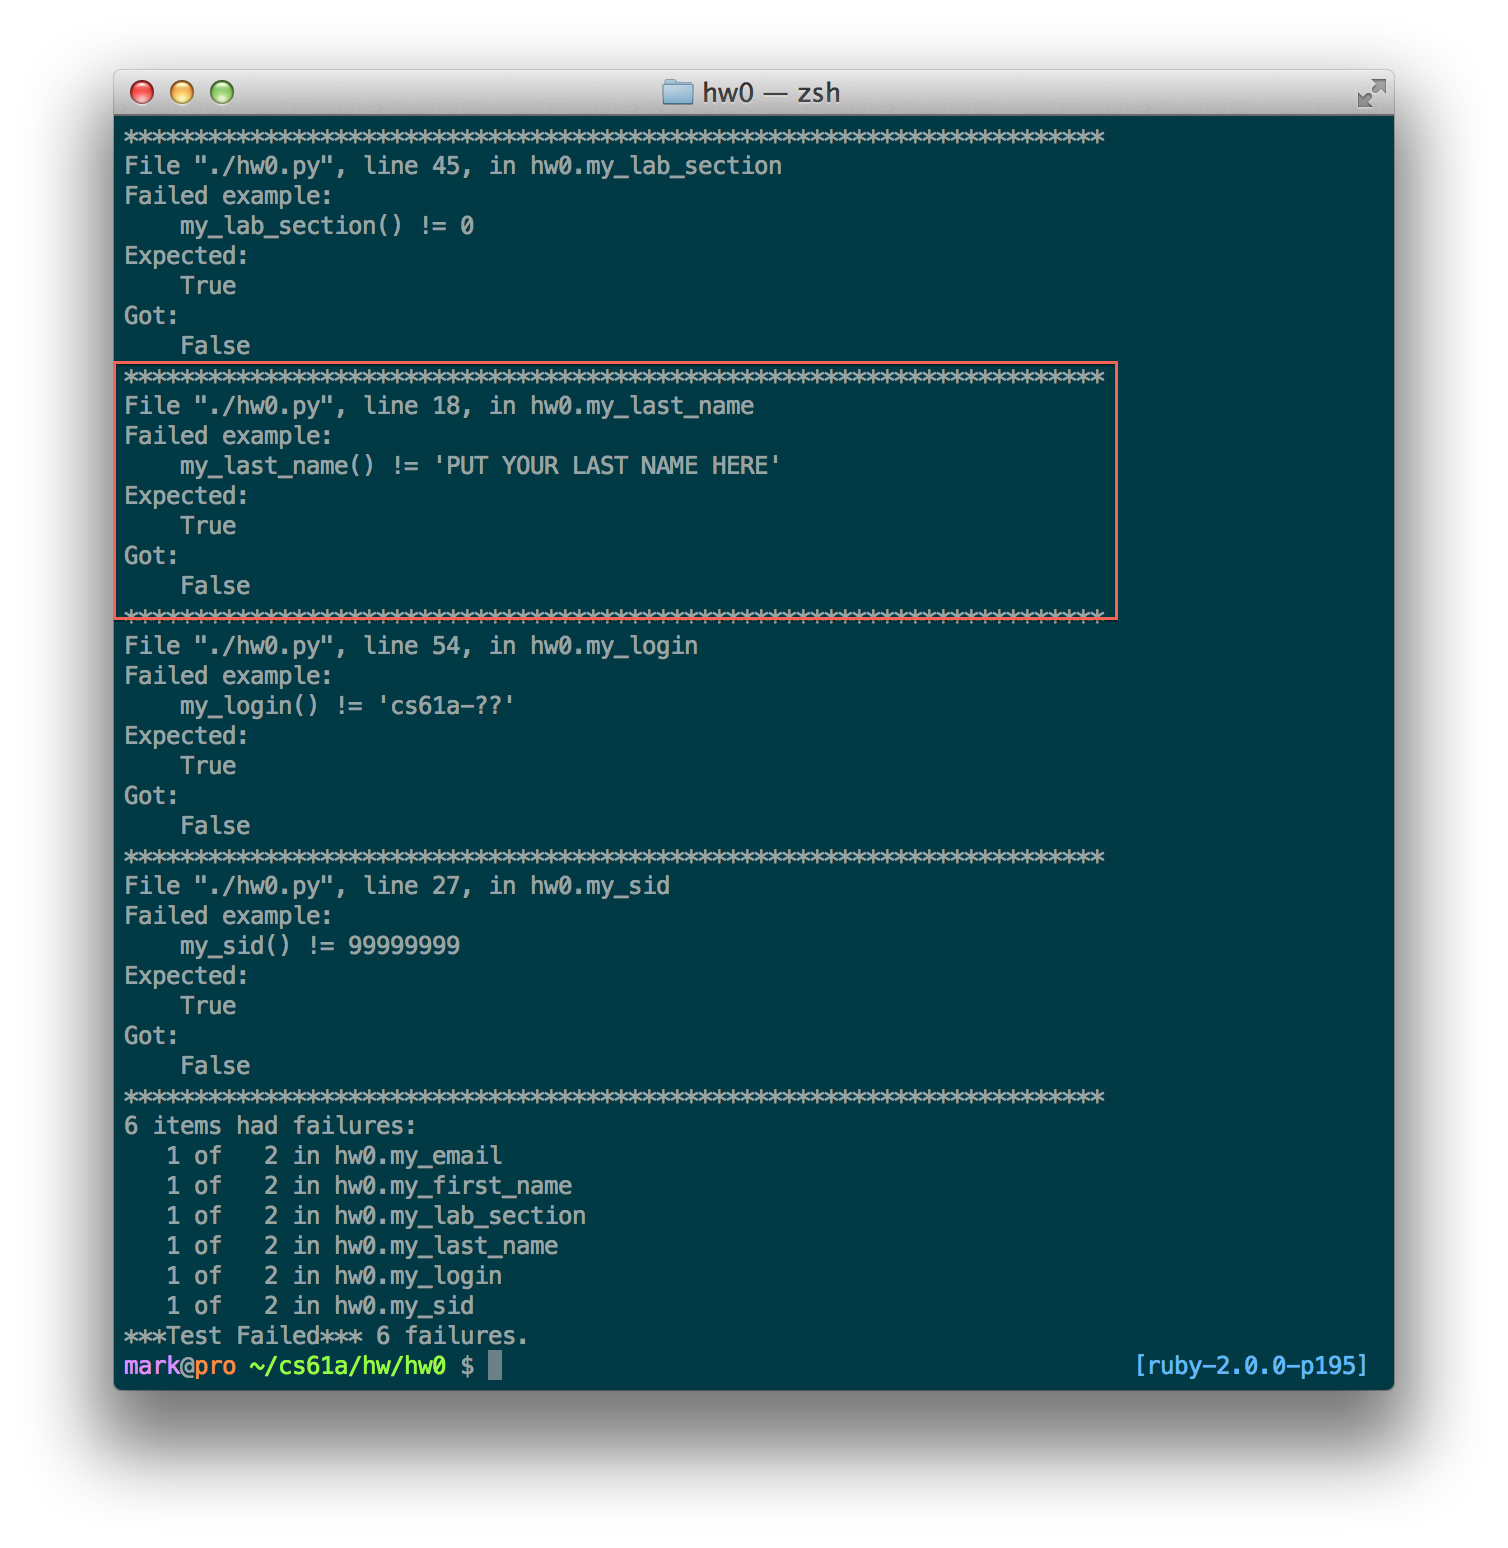
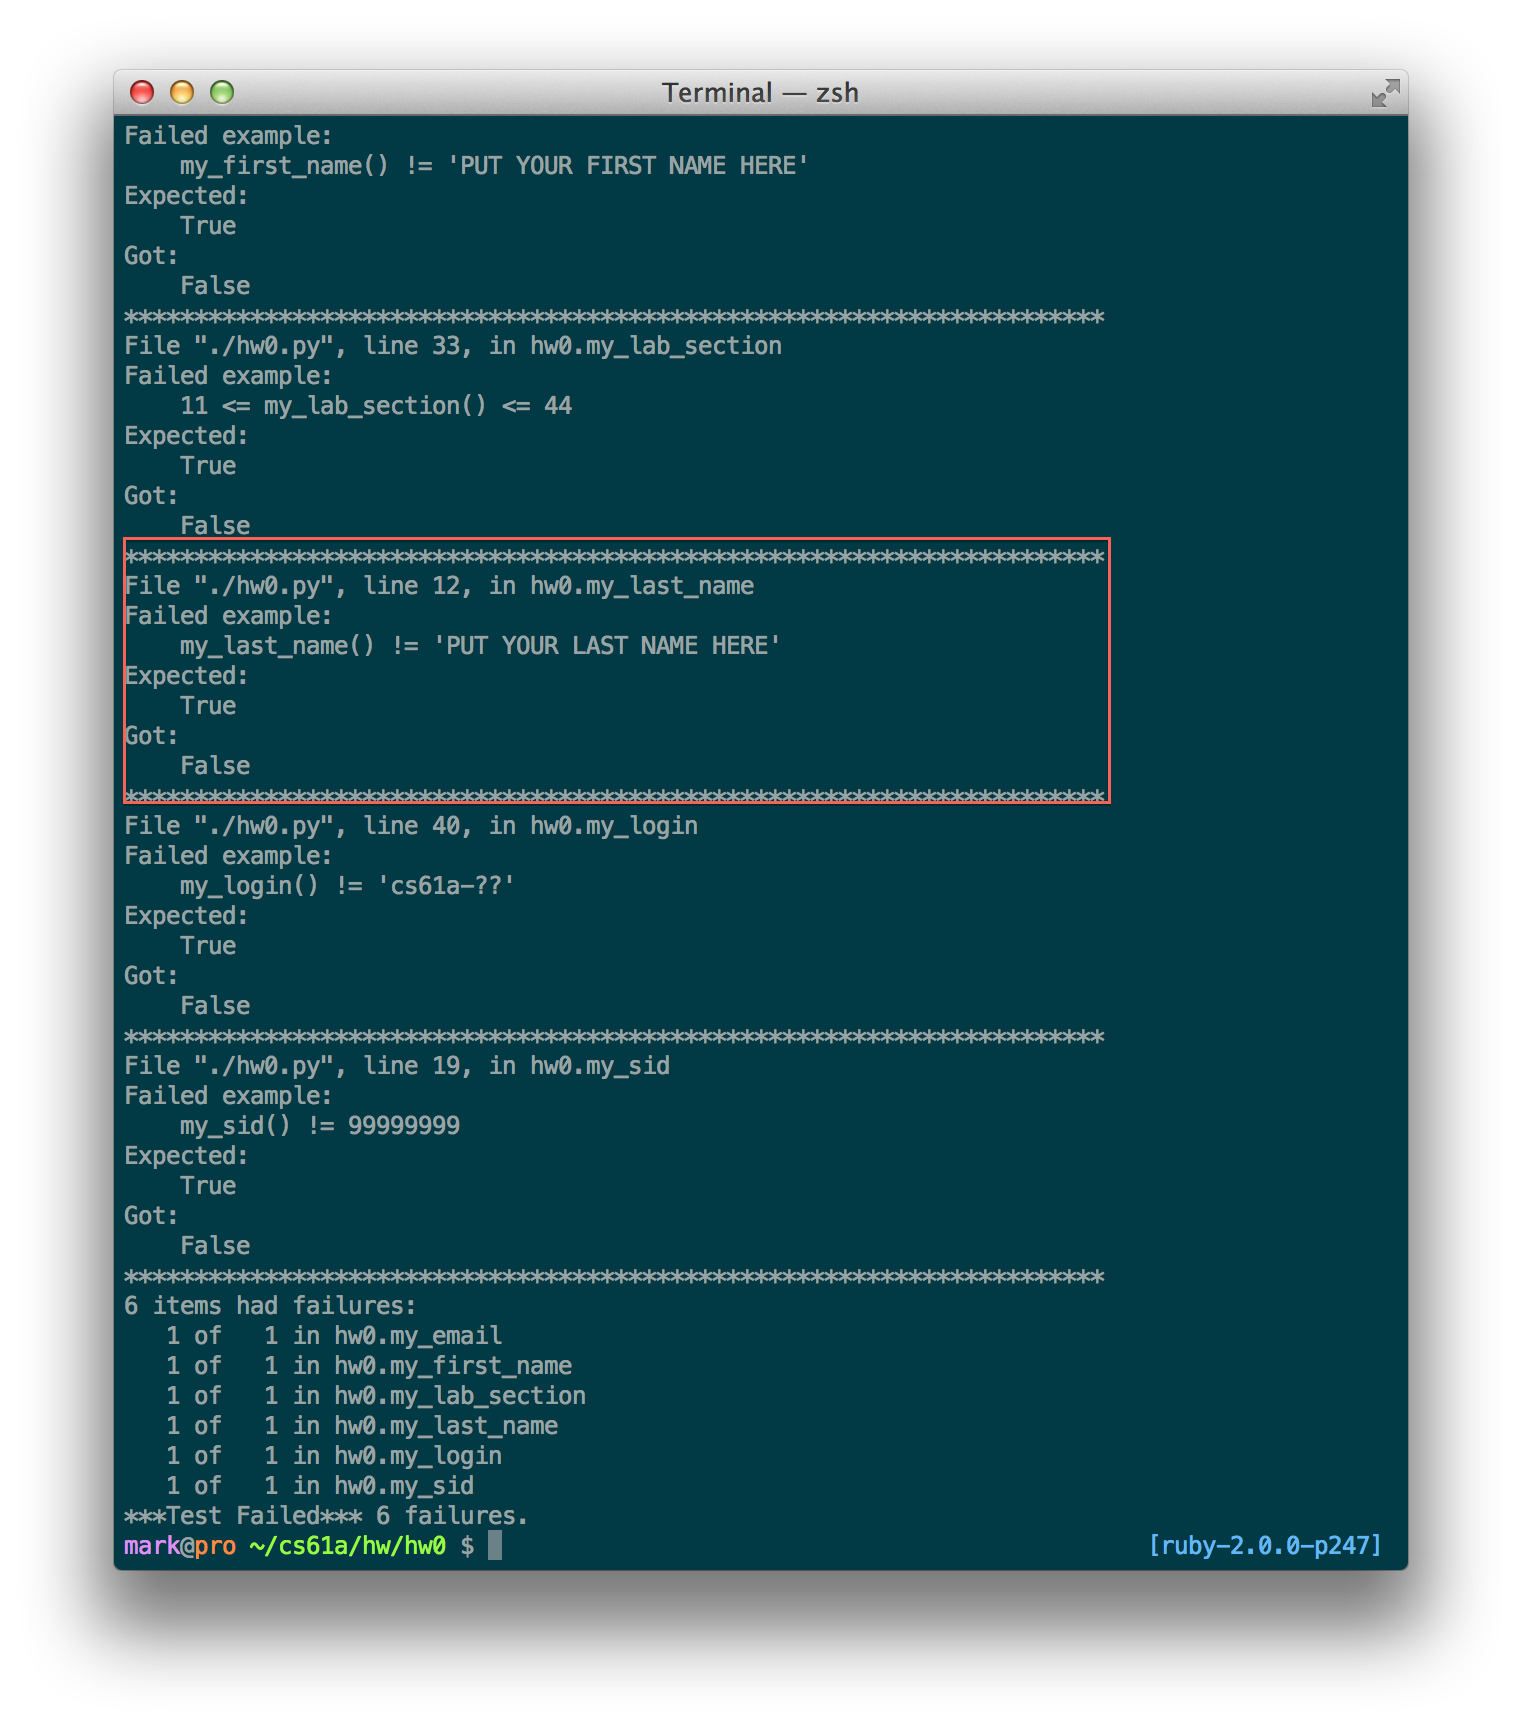
updating screenshots and line numbers for lab01

Changed region(s): [[0.0623, 0.031, 0.935, 0.9302]]

diff --git a/lab/lab01/lab01.php b/lab/lab01/lab01.php
@@ -251,7 +251,7 @@
     <p>
       The output gives us some pretty good debugging info. If you haven't already, take a look at Albert's debugging guide
       located <a href="http://inst.eecs.berkeley.edu/~cs61a/fa13/debugging.html">here</a>.  Looking at this particular test. It's saying that we had an
-      error in our <code>hw0.py</code> file on line 9 in the function <code>my_last_name</code>. That's pretty useful because we know exactly where to
+      error in our <code>hw0.py</code> file on line 12 in the function <code>my_last_name</code>. That's pretty useful because we know exactly where to
       look for it. This is why line numbers are a must for our text editors. After we find the correct line, let's try to understand what the test is
       saying. It's saying that the function <code>my_last_name</code>, when called with zero inputs, should <strong>not</strong> return the
       string <code>'PUT YOUR LAST NAME HERE'</code>. Except, ours is returning that string! Let's change that to your last name. Make sure you enter
@@ -276,7 +276,7 @@
     </p>
 
     <p>
-      For the section number, <strong>please put down your lab section number</strong>. This number will be between 11 and 43. You can find a complete list of all the sections on the class
+      For the section number, <strong>please put down your lab section number</strong>. This number will be between 11 and 44. You can find a complete list of all the sections on the class
       calendar which is located <a href="http://www-inst.eecs.berkeley.edu/~cs61a/fa13/#schedule">here</a>.
     </p>
 
